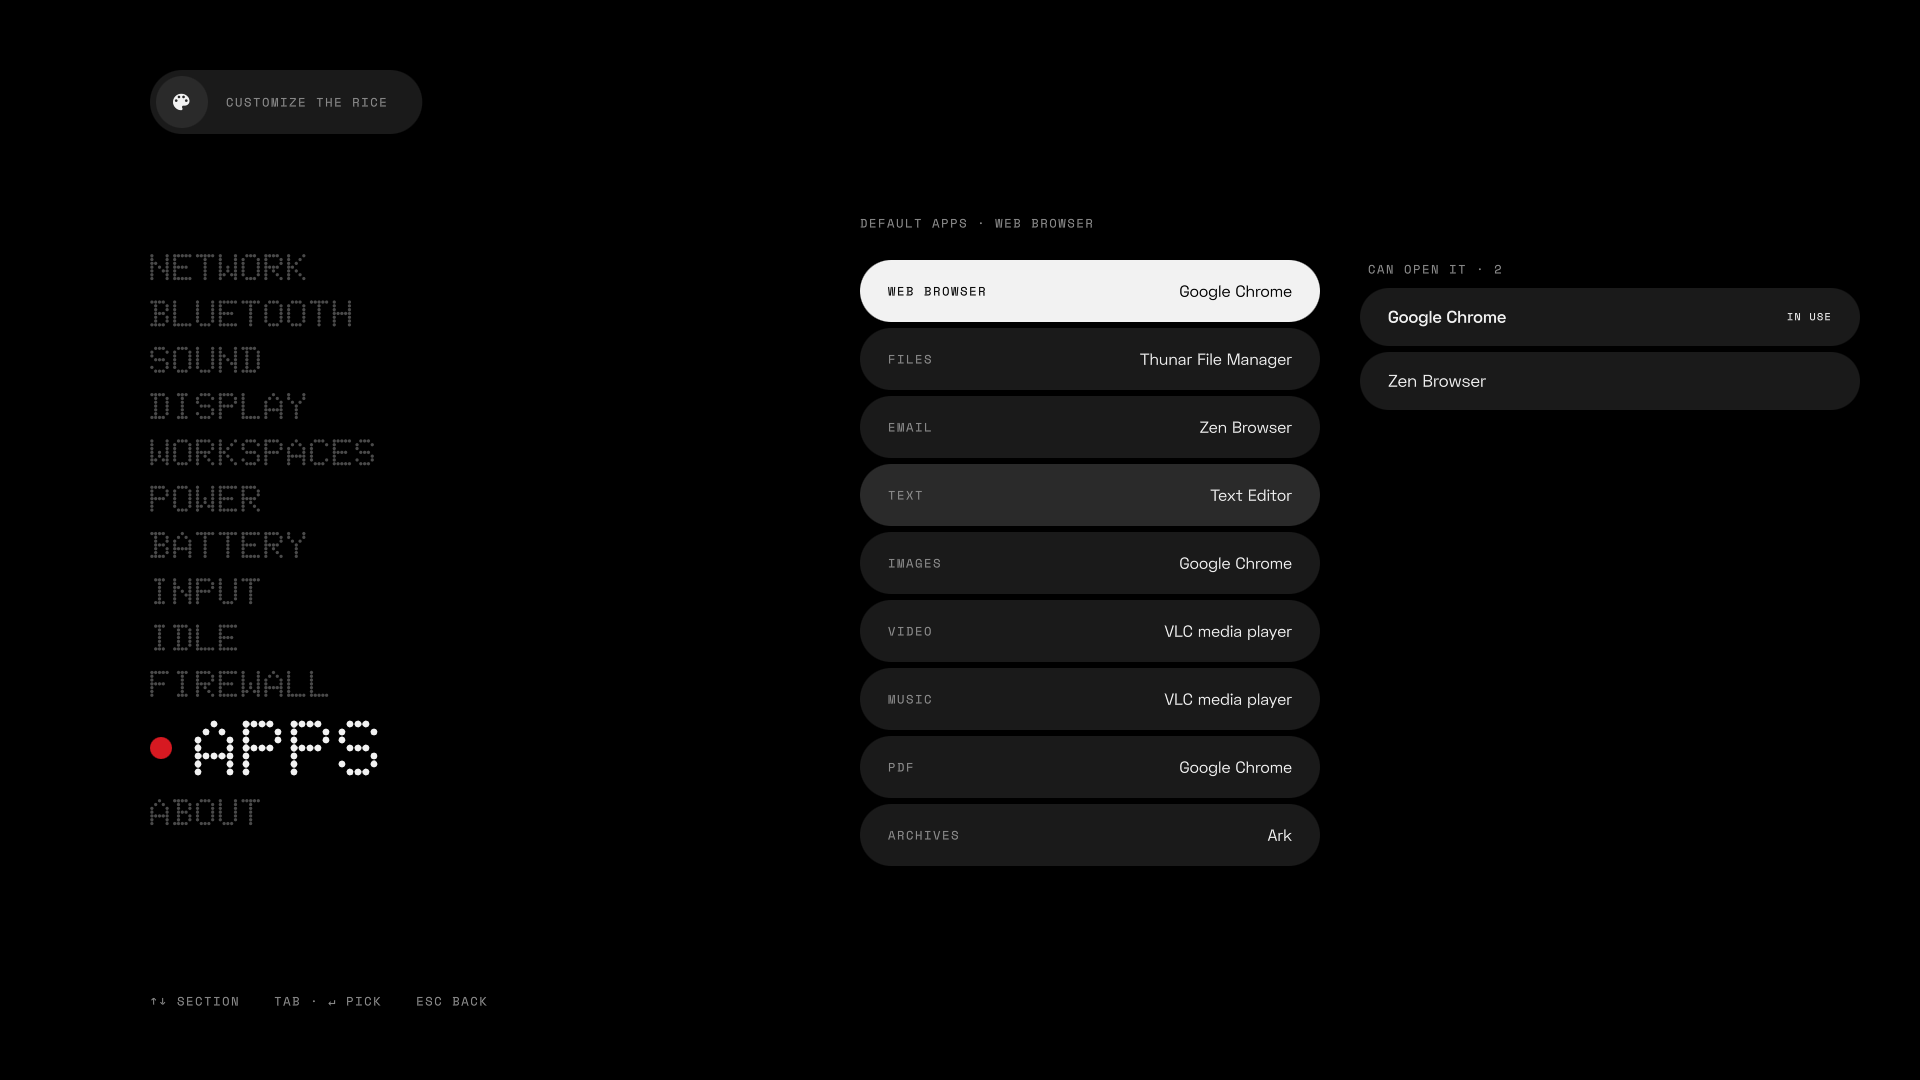
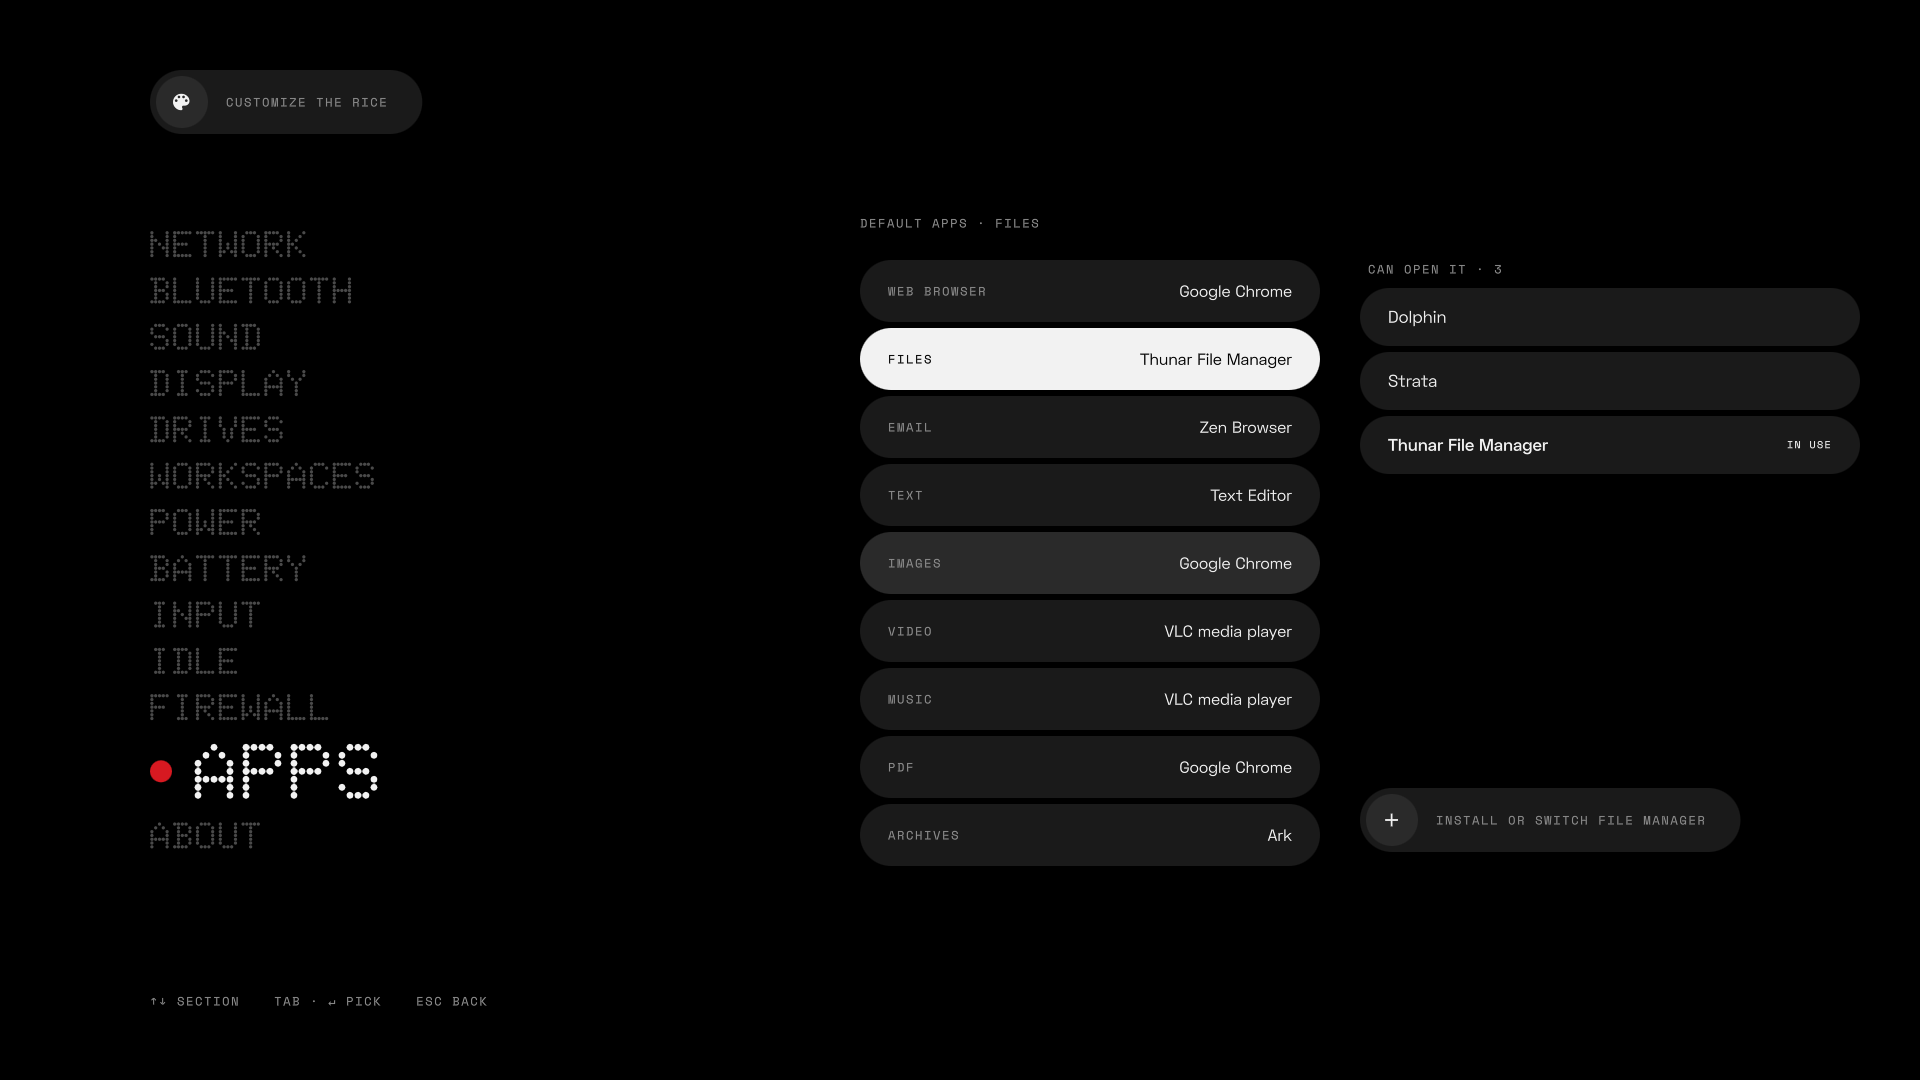
Docs: what's now proven on real machines, Drives and file manager screenshots, changelog wording

diff --git a/README.md b/README.md
@@ -65,7 +65,7 @@ Commits picked directly keep their author. Features ported by hand name their so
 
 <h2 align="center">Tested, and not tested</h2>
 
-Developed on one laptop: AMD CPU, NVIDIA GPU, one 1080p screen, CachyOS, Hyprland 0.56. Also installed on a second one: Intel and NVIDIA graphics, one screen, EndeavourOS moving from KDE Plasma, Hyprland 0.57.
+Developed on one laptop: AMD CPU, NVIDIA GPU, one 1080p screen, CachyOS, Hyprland 0.56. Also installed on a second one: Intel and NVIDIA graphics, one screen, EndeavourOS moving from KDE Plasma. Both have now run Hyprland 0.57.
 
 **Tested:**
 
@@ -75,6 +75,8 @@ Developed on one laptop: AMD CPU, NVIDIA GPU, one 1080p screen, CachyOS, Hyprlan
 - The greeter's install script the same way, then its login screen as a preview window.
 - Every package name in the installer, against the Arch repositories and the AUR.
 - A real install from this repository on the second laptop, keeping its SDDM login screen.
+- A real `install.sh --update` on the second laptop.
+- The Dial greeter at a real boot on the development laptop: a wrong password refused, the right one logging in.
 - A real session lock with typing, on the development laptop.
 - System → Drives with stand-ins for the system tools: the right drives listed, mounting, safely removing, and showing an error.
 - The lockout message on a real session lock, using a stand-in PAM file so the real account was never at risk, and Caps Lock detection.
@@ -84,13 +86,13 @@ Developed on one laptop: AMD CPU, NVIDIA GPU, one 1080p screen, CachyOS, Hyprlan
 
 **Not tested yet, so tell me if something breaks:**
 
-- Booting into the Lock greeter or the Dial greeter from this repository's scripts. The Dial greeter was tested as a window with real key presses against a fake greetd: a wrong password refused, the right one starting the chosen session.
-- `--update` and the update everything button on a real update, and the pacman notice during a real `pacman` run. The notice's script and the hook's text were tested, but not pacman running it.
+- A fresh install choosing the Lock greeter from this repository's script. The development laptop's Lock greeter was an earlier copy.
+- The **update everything** button on a real update, and the pacman notice during a real `pacman` run. The notice's script and the hook's text were tested, but not pacman running it.
 - A real `yay` update through the update button.
 - Whether `--fix-plasma` read the passwords from a real KDE Wallet, or they were typed. The format comes from KDE's source code.
 - Saving a Wi-Fi password typed into the agent during a real connection. The save itself was tested on a throwaway profile.
 - The lock screen's keyboard long term on the laptop where it failed. It worked again once that laptop was updated, but the problem couldn't be reproduced, so the safeguard isn't proven to be the reason.
-- A real USB drive or phone with mounting by itself, and real mounting from System → Drives. udiskie wasn't installed on the development laptop during testing, and it can't create test disks without admin rights.
+- Confirming a real USB drive mounts by itself through udiskie, a phone, and real mounting from System → Drives. A USB drive did appear in Dolphin on the development laptop after a restart.
 - A real lockout on the lock screen or a greeter, and the wording PAM uses there.
 - Installing Dolphin from zero through the installer. It was run on the development laptop, where it was already installed, and its menu fix was checked in a sandbox.
 - The SDDM option on a real machine.
@@ -154,7 +156,8 @@ Wi-Fi names, Bluetooth devices, the hostname and the laptop model are blanked ou
 | ![workspaces](screenshots/system-workspaces.png) **Workspaces** | ![power](screenshots/system-power.png) **Power and Lite mode** |
 | ![battery](screenshots/system-battery.png) **Battery** | ![input](screenshots/system-input.png) **Input** |
 | ![idle](screenshots/system-idle.png) **Idle and lid** | ![firewall](screenshots/system-firewall.png) **Firewall** |
-| ![default apps](screenshots/system-apps.png) **Default apps** | ![about](screenshots/system-about.png) **About** |
+| ![default apps](screenshots/system-apps.png) **Default apps, with the file manager choice** | ![about](screenshots/system-about.png) **About: updates and login screen** |
+| ![drives](screenshots/system-drives.png) **Drives** (nothing plugged in) | |
 
 ### The rice's look
 

diff --git a/CHANGELOG.md b/CHANGELOG.md
@@ -1,6 +1,6 @@
 # Changelog
 
-The newest changes come first. To get them, press **update the rice** in System → About, or run `install.sh --update`.
+The newest changes come first. To get them, press **update everything** in System → About, or run `install.sh --update`.
 
 ## November 2026
 
@@ -38,7 +38,6 @@ The newest changes come first. To get them, press **update the rice** in System 
 ### Login screens
 
 - System → About shows your login screen, and **change login screen** opens a menu to pick another.
-
 - New: the **Dial greeter**. Nebelung's camera dial and tachometer, ported from the SDDM theme to greetd, so that look no longer needs SDDM.
 - The existing greeter is now called the **Lock greeter**, after the lock screen look it shares.
 - Switch at any time with `install.sh --lock-greeter` or `install.sh --dial-greeter`.
